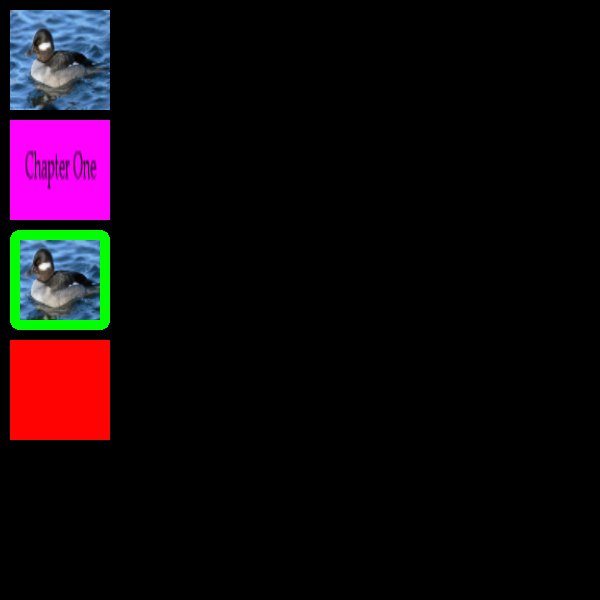
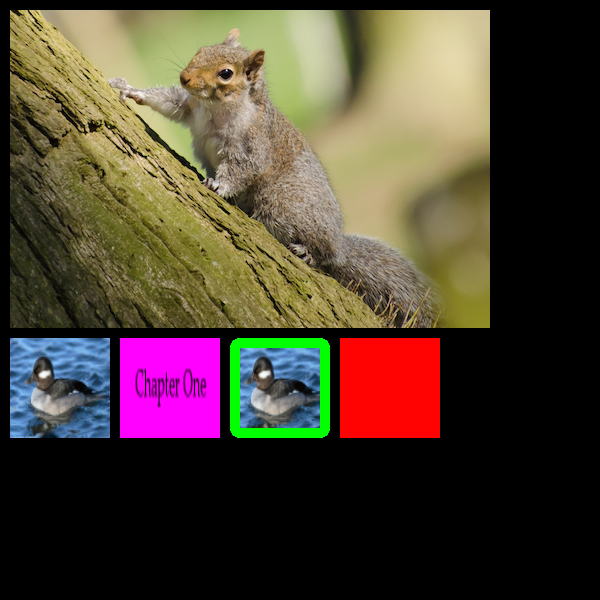
Image size from background image

diff --git a/crates/rect/src/lib.rs b/crates/rect/src/lib.rs
@@ -35,11 +35,11 @@ use ambient_std::{
 };
 use async_trait::async_trait;
 use glam::{uvec4, vec4, Quat, UVec3, UVec4, Vec3, Vec4};
-use wgpu::{BindGroup, BindGroupLayoutEntry};
+use wgpu::{BindGroup, BindGroupLayoutEntry, Extent3d};
 
 pub use ambient_ecs::generated::components::core::rect::{
     background_color, background_url, border_color, border_radius, border_thickness, line_from,
-    line_to, line_width, rect,
+    line_to, line_width, rect, size_from_background_image,
 };
 
 #[repr(C)]
@@ -167,12 +167,35 @@ pub fn systems() -> SystemGroup {
                             },
                             background: world.get_cloned(id, background_url()).ok(),
                         };
+                        let resize = world.has_component(id, size_from_background_image());
                         runtime.spawn(async move {
                             let mat = mat_key.get(&assets).await;
                             match mat {
                                 Ok(mat) => {
                                     async_run.run(move |world| {
-                                        world.add_component(id, material(), (*mat).clone()).ok();
+                                        world
+                                            .add_component(
+                                                id,
+                                                material(),
+                                                SharedMaterial(mat.clone()),
+                                            )
+                                            .ok();
+                                        if resize {
+                                            world
+                                                .add_components(
+                                                    id,
+                                                    Entity::new()
+                                                        .with(
+                                                            width(),
+                                                            mat.background_size.width as f32,
+                                                        )
+                                                        .with(
+                                                            height(),
+                                                            mat.background_size.height as f32,
+                                                        ),
+                                                )
+                                                .ok();
+                                        }
                                     });
                                 }
                                 Err(err) => {
@@ -254,8 +277,8 @@ struct RectMaterialKey {
     pub background: Option<String>,
 }
 #[async_trait]
-impl AsyncAssetKey<AssetResult<Arc<SharedMaterial>>> for RectMaterialKey {
-    async fn load(self, assets: AssetCache) -> AssetResult<Arc<SharedMaterial>> {
+impl AsyncAssetKey<AssetResult<Arc<RectMaterial>>> for RectMaterialKey {
+    async fn load(self, assets: AssetCache) -> AssetResult<Arc<RectMaterial>> {
         let gpu = GpuKey.get(&assets);
         let error_color = PixelTextureKey {
             colors: vec![uvec4(255, 0, 0, 255)],
@@ -285,12 +308,12 @@ impl AsyncAssetKey<AssetResult<Arc<SharedMaterial>>> for RectMaterialKey {
             }
             .get(&assets),
         };
-        Ok(Arc::new(SharedMaterial::new(RectMaterial::new(
+        Ok(Arc::new(RectMaterial::new(
             &gpu,
             &assets,
             self.params,
             &background,
-        ))))
+        )))
     }
 }
 
@@ -308,6 +331,7 @@ pub struct RectMaterial {
     id: String,
     bind_group: wgpu::BindGroup,
     transparent: Option<bool>,
+    background_size: Extent3d,
 }
 impl RectMaterial {
     pub fn new(
@@ -351,6 +375,7 @@ impl RectMaterial {
                 label: Some("RectMaterial.bind_group"),
             }),
             transparent: Some(true),
+            background_size: background.size,
         }
     }
 }

diff --git a/guest/rust/examples/ui/image/src/client.rs b/guest/rust/examples/ui/image/src/client.rs
@@ -4,28 +4,35 @@ use ambient_api::{prelude::*, ui::ImageFromUrl};
 fn App(_hooks: &mut Hooks) -> Element {
     Group::el([FlowColumn::el([
         ImageFromUrl {
-            url: "https://upload.wikimedia.org/wikipedia/commons/b/bf/Bucephala-albeola-010.jpg"
-                .to_string(),
-        }
-        .el(),
-        ImageFromUrl {
-            url: "https://upload.wikimedia.org/wikipedia/commons/9/9d/Alpha_transparency_image.png"
-                .to_string(),
+            url: asset::url("assets/squirrel.png").unwrap(),
         }
         .el()
-        .with(background_color(), vec4(1., 0., 1., 1.)),
-        ImageFromUrl {
-            url: "https://upload.wikimedia.org/wikipedia/commons/b/bf/Bucephala-albeola-010.jpg"
-                .to_string(),
-        }
-        .el()
-        .with(border_radius(), Vec4::ONE * 10.)
-        .with(border_color(), vec4(0., 1., 0., 1.))
-        .with(border_thickness(), 10.),
-        ImageFromUrl {
-            url: "invalid url".to_string(),
-        }
-        .el(),
+        .with_default(size_from_background_image()),
+        FlowRow::el([
+            ImageFromUrl {
+                url: "https://upload.wikimedia.org/wikipedia/commons/b/bf/Bucephala-albeola-010.jpg"
+                    .to_string(),
+            }
+            .el(),
+            ImageFromUrl {
+                url: "https://upload.wikimedia.org/wikipedia/commons/9/9d/Alpha_transparency_image.png"
+                    .to_string(),
+            }
+            .el()
+            .with(background_color(), vec4(1., 0., 1., 1.)),
+            ImageFromUrl {
+                url: "https://upload.wikimedia.org/wikipedia/commons/b/bf/Bucephala-albeola-010.jpg"
+                    .to_string(),
+            }
+            .el()
+            .with(border_radius(), Vec4::ONE * 10.)
+            .with(border_color(), vec4(0., 1., 0., 1.))
+            .with(border_thickness(), 10.),
+            ImageFromUrl {
+                url: "invalid url".to_string(),
+            }
+            .el(),
+        ]).with(space_between_items(), 10.)
     ])
     .with(space_between_items(), 10.)
     .with_padding_even(STREET)])

diff --git a/crates/renderer/src/lib.rs b/crates/renderer/src/lib.rs
@@ -249,7 +249,7 @@ pub struct GpuRenderPrimitive {
 }
 
 #[derive(Clone, Debug, Deref, DerefMut)]
-pub struct SharedMaterial(Arc<dyn Material + 'static>);
+pub struct SharedMaterial(pub Arc<dyn Material + 'static>);
 
 impl<T: Material + 'static> From<Arc<T>> for SharedMaterial {
     fn from(v: Arc<T>) -> Self {
